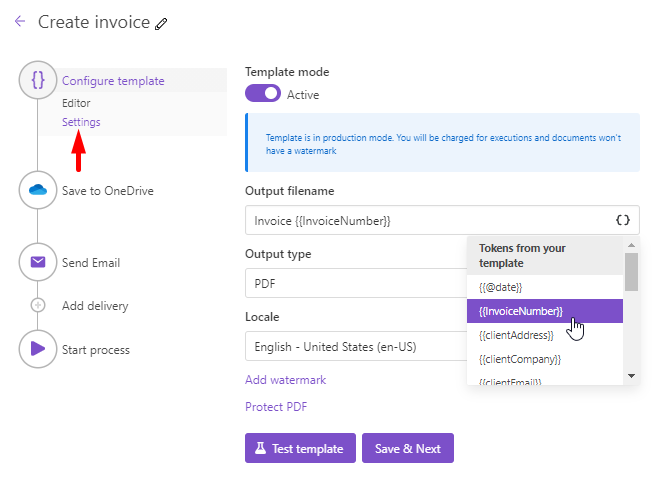
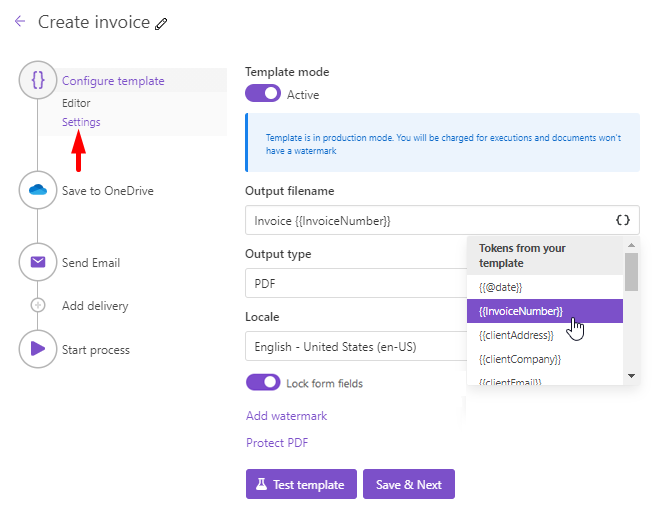
added Lock form fields description, changed picture

diff --git a/source/user-guide/processes/configure-settings.rst b/source/user-guide/processes/configure-settings.rst
@@ -11,6 +11,7 @@ Here you customize the following settings:
 - :ref:`Mode <process-mode>`
 - :ref:`output-filename`
 - :ref:`output-type`
+- :ref:`lock-form-fields`
 - :ref:`add-watermark`
 - :ref:`protect-pdf`
 
@@ -36,6 +37,14 @@ Output type
 -----------
 
 Type of the output file. By default, it is the same as your template but you can change it to PDF.
+
+.. _lock-form-fields:
+
+Lock form fields
+----------------
+
+The option locks the form fields once your process is completed. It's activated by default.
+If you want to edit fields in the result PDF file - disable the option.
 
 .. _add-watermark:
 
